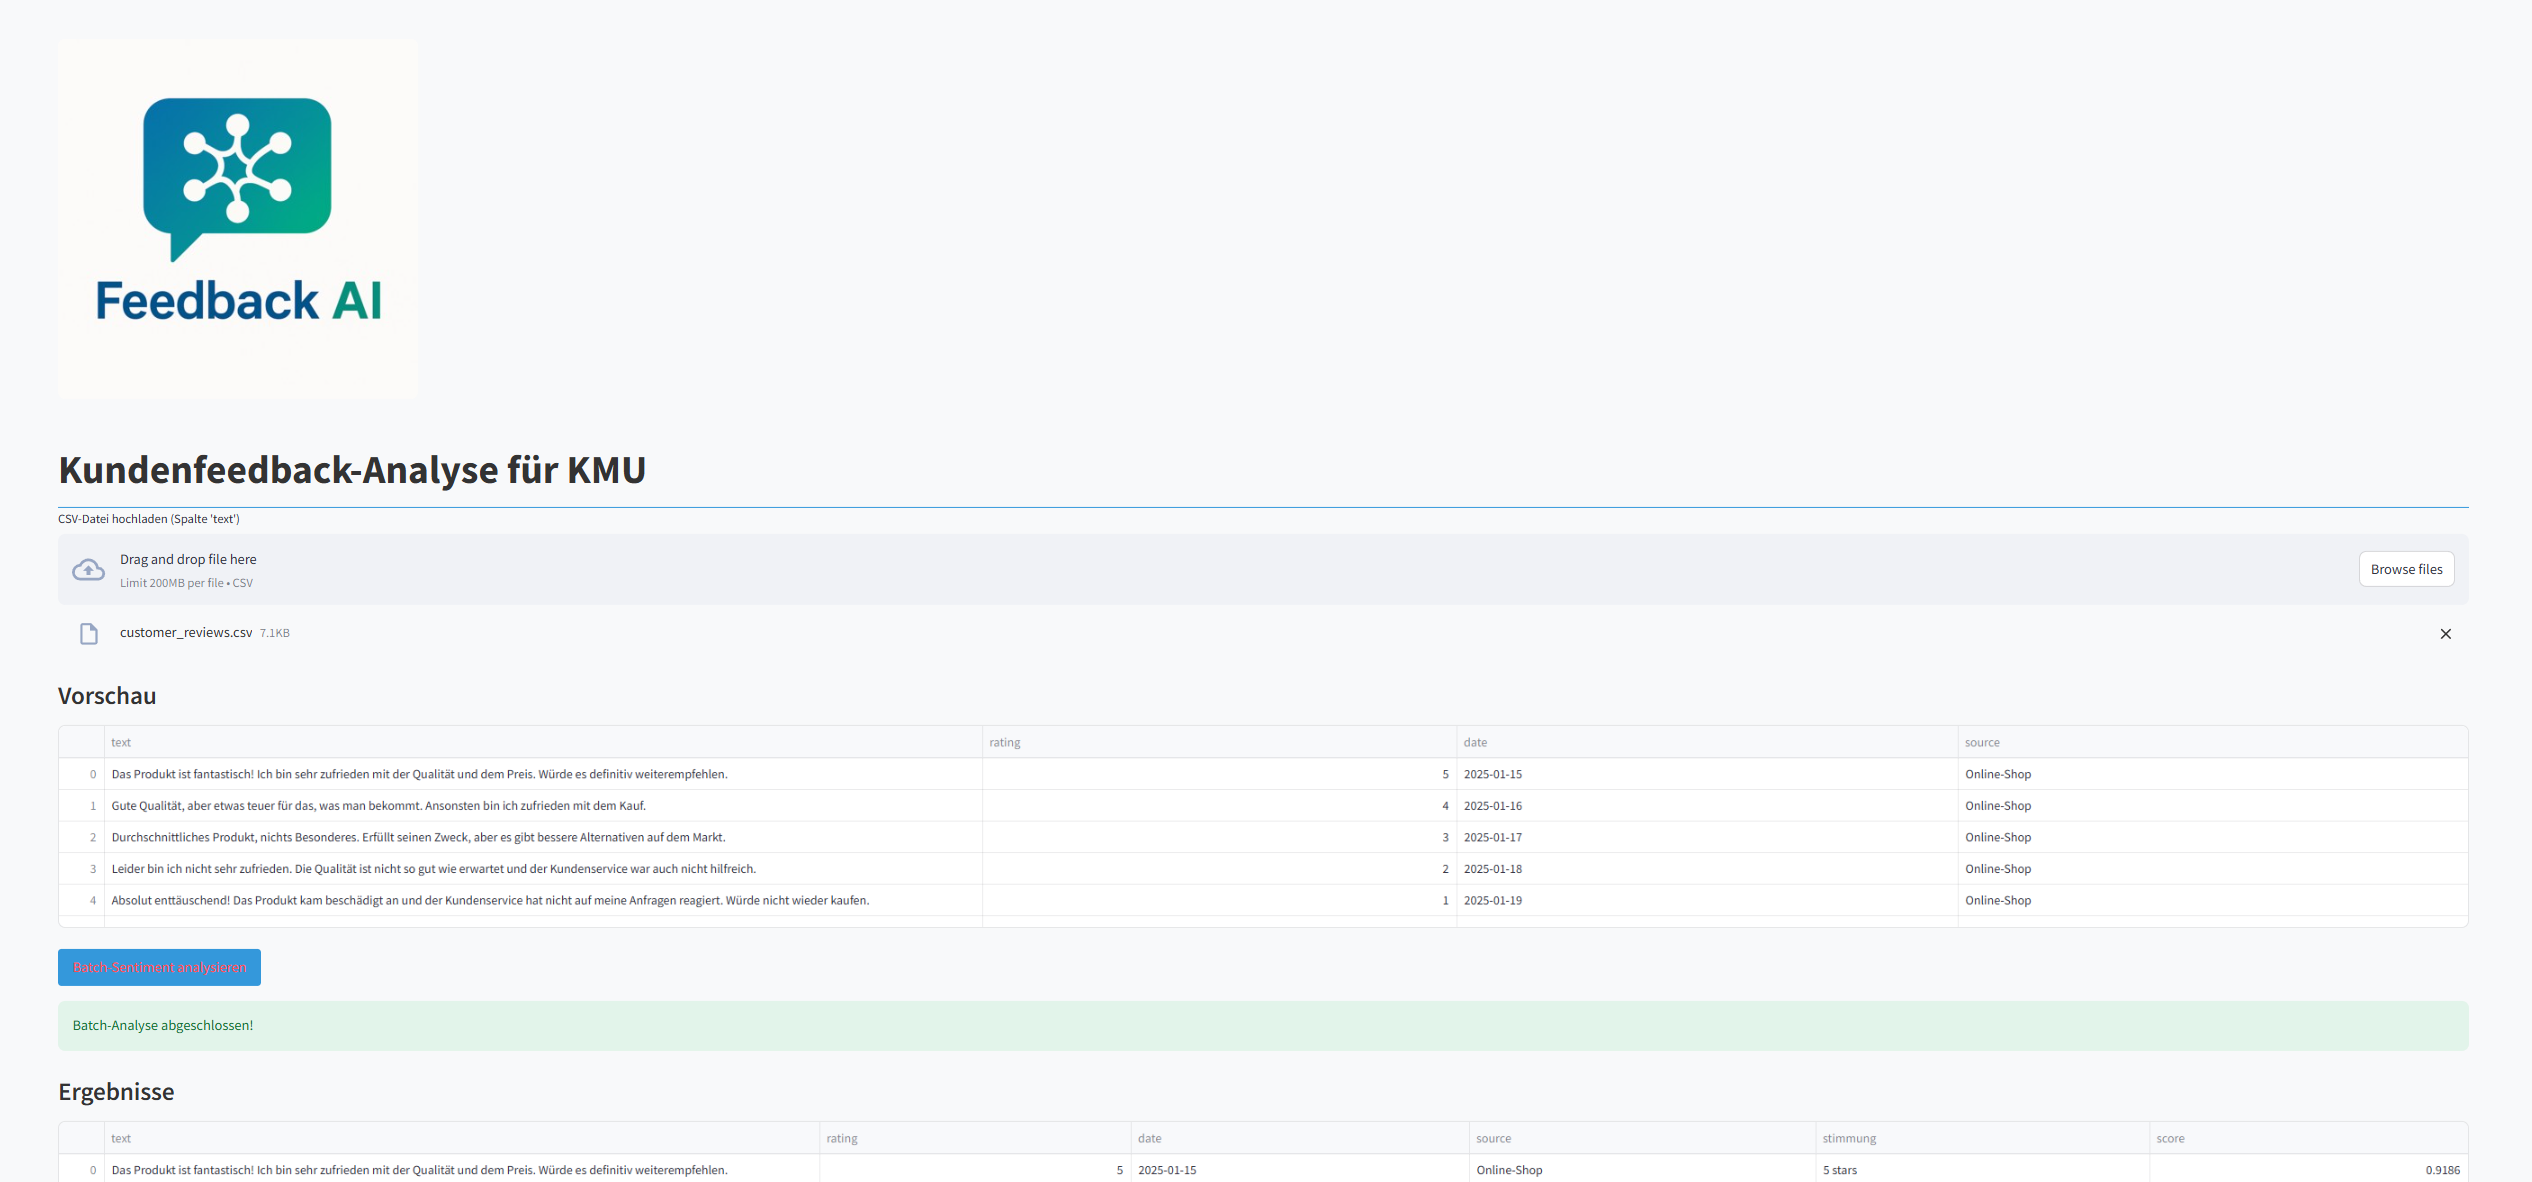
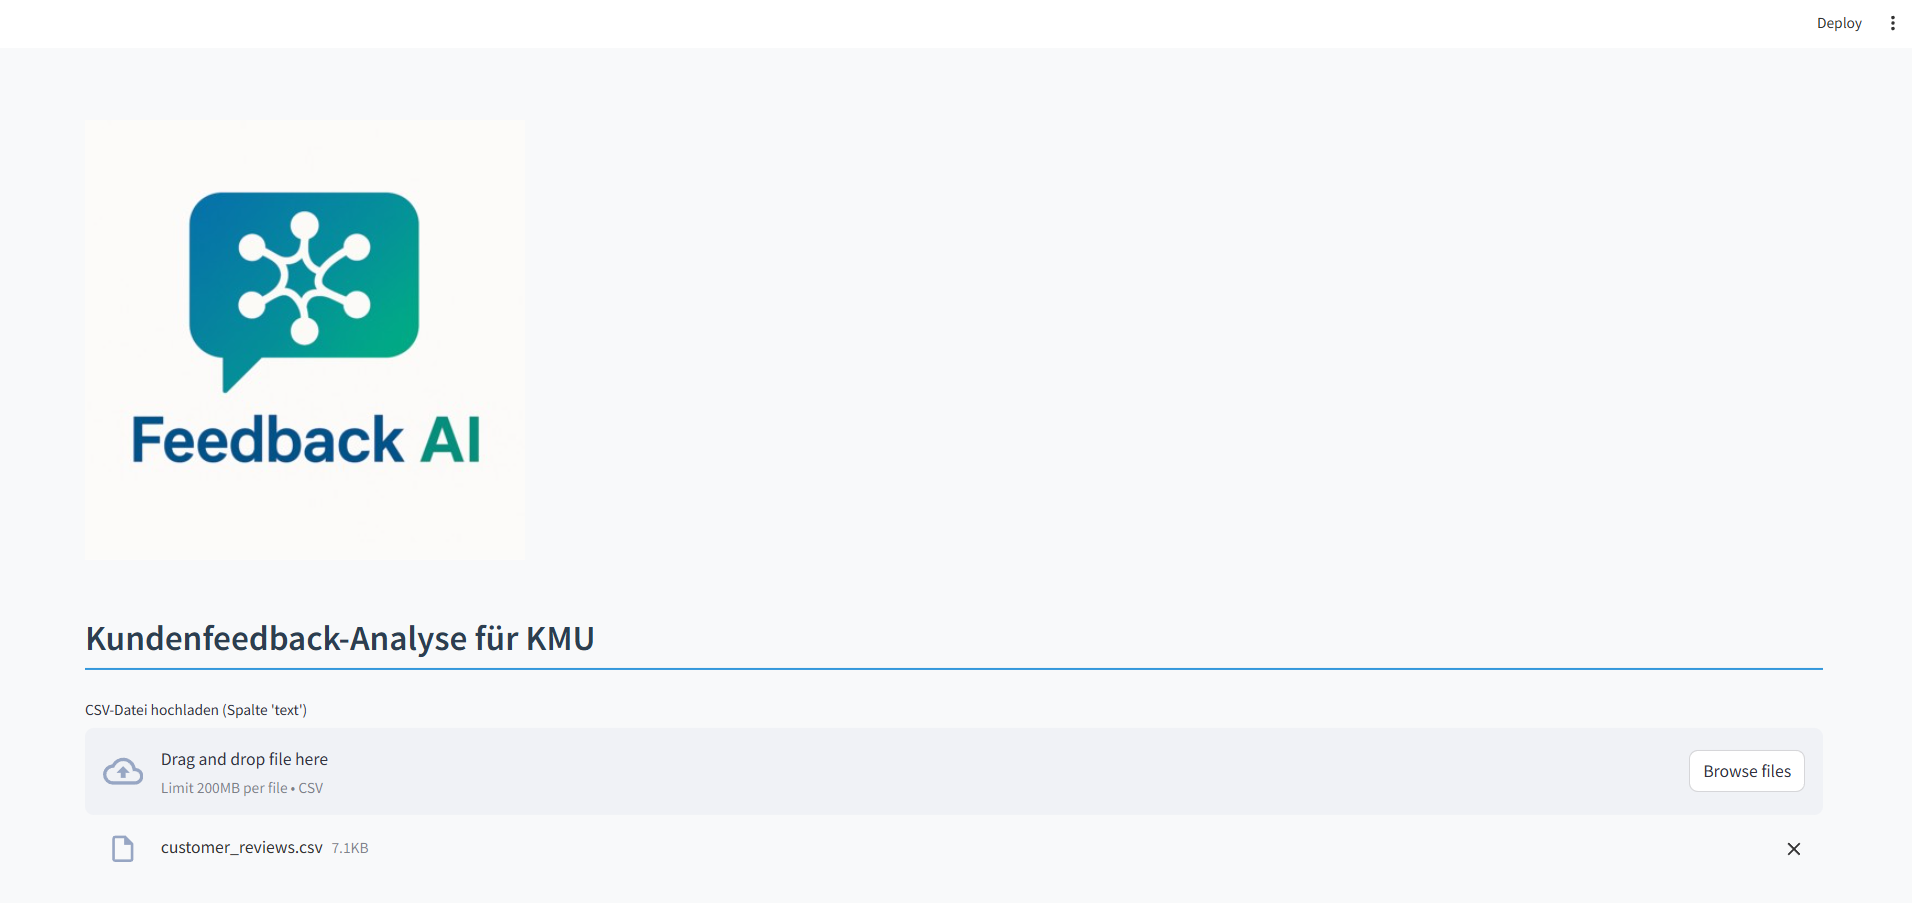
changes

diff --git a/app/main.py b/app/main.py
@@ -98,43 +98,53 @@ if uploaded:
     else:
         st.subheader("Vorschau")
         preview = df.head(5)
-        # Dynamische Höhe für 5 Zeilen + Header
         st.dataframe(preview, height=5*35 + 50, use_container_width=True)
 
-        if st.button("Batch-Sentiment analysieren"):
-            with st.spinner("Analysiere Batch…"):
-                labs, scs = [], []
-                for txt in df["text"].astype(str):
-                    out = sentiment_chunked(txt)
-                    labs.append(out["label"])
-                    scs.append(out["score"])
-            df["stimmung"] = labs
-            df["score"]    = scs
+        # Speichere den Upload im Session State
+        st.session_state["batch_input_df"] = df.copy()
 
-            st.success("Batch-Analyse abgeschlossen!")
-            st.subheader("Ergebnisse")
-            # Höhe: bis zu 800px, dann Browser-Scroll
-            rows   = df.shape[0]
-            height = min(800, rows*35 + 50)
-            st.dataframe(df, height=height, use_container_width=True)
+# Nur anzeigen, wenn ein Upload im State liegt
+if "batch_input_df" in st.session_state:
+    # Button für Analyse
+    if st.button("Batch-Sentiment analysieren"):
+        with st.spinner("Analysiere Batch…"):
+            labs, scs = [], []
+            for txt in st.session_state["batch_input_df"]["text"].astype(str):
+                out = sentiment_chunked(txt)
+                labs.append(out["label"])
+                scs.append(out["score"])
+        df = st.session_state["batch_input_df"].copy()
+        df["stimmung"] = labs
+        df["score"] = scs
+        # Speichere Ergebnisse im State
+        st.session_state["batch_result_df"] = df.copy()
+        st.success("Batch-Analyse abgeschlossen!")
 
-            st.download_button(
-                "Ergebnisse als CSV herunterladen",
-                data=df.to_csv(index=False),
-                file_name="sentiment_results.csv",
-                mime="text/csv"
-            )
+    # Ergebnisse zeigen, wenn vorhanden
+    if "batch_result_df" in st.session_state:
+        df = st.session_state["batch_result_df"]
+        st.subheader("Ergebnisse")
+        rows = df.shape[0]
+        height = min(800, rows*35 + 50)
+        st.dataframe(df, height=height, use_container_width=True)
 
-            if st.checkbox("Themen extrahieren"):
-                n = st.slider("Anzahl Themen", 2, 10, 5)
-                vec, lda = load_topic_components(n)
-                X = vec.fit_transform(df["text"].astype(str))
-                lda.fit(X)
-                st.write("**Top-Wörter pro Thema**")
-                terms = vec.get_feature_names_out()
-                for i, comp in enumerate(lda.components_):
-                    top10 = [terms[j] for j in comp.argsort()[-10:]]
-                    st.write(f"Topic {i+1}: {', '.join(top10)}")
+        st.download_button(
+            "Ergebnisse als CSV herunterladen",
+            data=df.to_csv(index=False),
+            file_name="sentiment_results.csv",
+            mime="text/csv"
+        )
+
+        if st.checkbox("Themen extrahieren"):
+            n = st.slider("Anzahl Themen", 2, 10, 5, key="topics_slider")
+            vec, lda = load_topic_components(n)
+            X = vec.fit_transform(df["text"].astype(str))
+            lda.fit(X)
+            st.write("**Top-Wörter pro Thema**")
+            terms = vec.get_feature_names_out()
+            for i, comp in enumerate(lda.components_):
+                top10 = [terms[j] for j in comp.argsort()[-10:]]
+                st.write(f"Topic {i+1}: {', '.join(top10)}")
 
 # ———————————————————————————————————————————
 # 4. Manuelle Einzel-Analyse

diff --git a/docs/responsive_tests.md b/docs/responsive_tests.md
@@ -3,6 +3,7 @@
 In diesem Dokument siehst du, wie die App auf verschiedenen Viewport-Breiten dargestellt wird.
 
 ---
+
 ## 1. Mobile (360 px Breite)
 
 - **Überschrift**: Schriftgröße 1.5 rem, Farbe #2c3e50, Unterstrich in #3498db  
@@ -10,9 +11,13 @@ In diesem Dokument siehst du, wie die App auf verschiedenen Viewport-Breiten dar
 - **Text-Area**: 100 % Breite, Padding 0.75 rem, Rand 1 px #ecf0f1  
 - **Tabellen** (falls sichtbar): Header dunkelblau, Zeilen abwechselnd hellgrau/weiß  
 
-![Mobile-Ansicht](responsive_mobile.png)
+![Mobile-Ansicht](responsive_mobile1.png)
+![Mobile-Ansicht](responsive_mobile2.png)
+![Mobile-Ansicht](responsive_mobile3.png)
+![Mobile-Ansicht](responsive_mobile4.png)
 
 ---
+
 ## 2. Tablet (768 px Breite)
 
 - **Überschrift**: Schriftgröße 1.75 rem, Farbe #2c3e50  
@@ -20,9 +25,12 @@ In diesem Dokument siehst du, wie die App auf verschiedenen Viewport-Breiten dar
 - **Text-Area**: 90 % Breite, Padding 0.5 rem  
 - **Tabellen**: wie Desktop, aber ggf. mit Scrollbar bei breiten Inhalten  
 
-![Tablet-Ansicht](responsive_tablet.png)
+![Tablet-Ansicht](responsive_tablet1.png)
+![Tablet-Ansicht](responsive_tablet2.png)
+![Tablet-Ansicht](responsive_tablet3.png)
 
 ---
+
 ## 3. Desktop (1200 px Breite)
 
 - **Überschrift**: Schriftgröße 2 rem, Farbe #2c3e50  
@@ -32,3 +40,21 @@ In diesem Dokument siehst du, wie die App auf verschiedenen Viewport-Breiten dar
 
 ![Desktop-Ansicht](Desktop1.png)
 ![Desktop-Ansicht](Desktop2.png)
+![Desktop-Ansicht](Desktop3.png)
+![Desktop-Ansicht](Desktop4.png)
+
+---
+
+## 4. Browser-Kompatibilität (Testmatrix)
+
+| Browser   | Version           | Gerät    | Problemfrei? | Anmerkungen                                   |
+|-----------|-------------------|----------|--------------|-----------------------------------------------|
+| Chrome    | 137.0.7151.69     | Desktop  | Ja           | –                                             |
+| Chrome    | 137.0.7151.69     | Tablet   | Ja           | Alles korrekt skaliert                        |
+| Chrome    | 137.0.7151.69     | Mobile   | Ja           | Menü klappt, Buttons lesbar                   |
+| Firefox   | 139.0.1           | Desktop  | Ja           | –                                             |
+| Firefox   | 139.0.1           | Tablet   | Ja           | Leichte Verschiebung bei Scrollbar            |
+| Firefox   | 139.0.1           | Mobile   | Ja           | Alles gut angepasst                           |
+| Edge      | 137.0.3296.62     | Desktop  | Ja           | –                                             |
+| Edge      | 137.0.3296.62     | Tablet   | Nein         | Darstellung zu kompakt, Buttons kaum klickbar |
+| Edge      | 137.0.3296.62     | Mobile   | Nein         | Inhalte extrem klein, Navigation schwierig    |

diff --git a/static/style_guidelines.md b/static/style_guidelines.md
@@ -51,3 +51,13 @@
   - Stapel-Layout statt Spalten
   - Größere Touch-Targets (min. 44px)
   - Reduzierte Abstände
+
+  ### Hinweis zu Limitationen im CSS-Styling
+
+Die visuelle Anpassung der Anwendung erfolgte über eine eigene Datei `static/style.css`, in der Farben, Layout und Komponentendesign definiert wurden. 
+
+Dabei wurde bewusst auf eine konsistente Farbgebung mit den zentralen Farben der Anwendung (#3498db und #2c3e50) geachtet.
+
+Bei einzelnen dynamisch generierten Komponenten – insbesondere dem Slider (BaseWeb-Komponente von Streamlit) – ließ sich die Farbe des aktiven Balkens trotz gezielter Selektoren nicht vollständig überschreiben. Die Ursache liegt in der Kombination aus dynamischen Klassennamen und Inline-Styles, die nicht zuverlässig per CSS übersteuerbar sind.
+
+**Fazit:** Die Funktionalität und das visuelle Gesamtkonzept sind nicht beeinträchtigt. Die Entscheidung, diesen Punkt nicht weiter zu forcieren, basiert auf einem bewussten Abwägen zwischen Aufwand und Nutzen.
